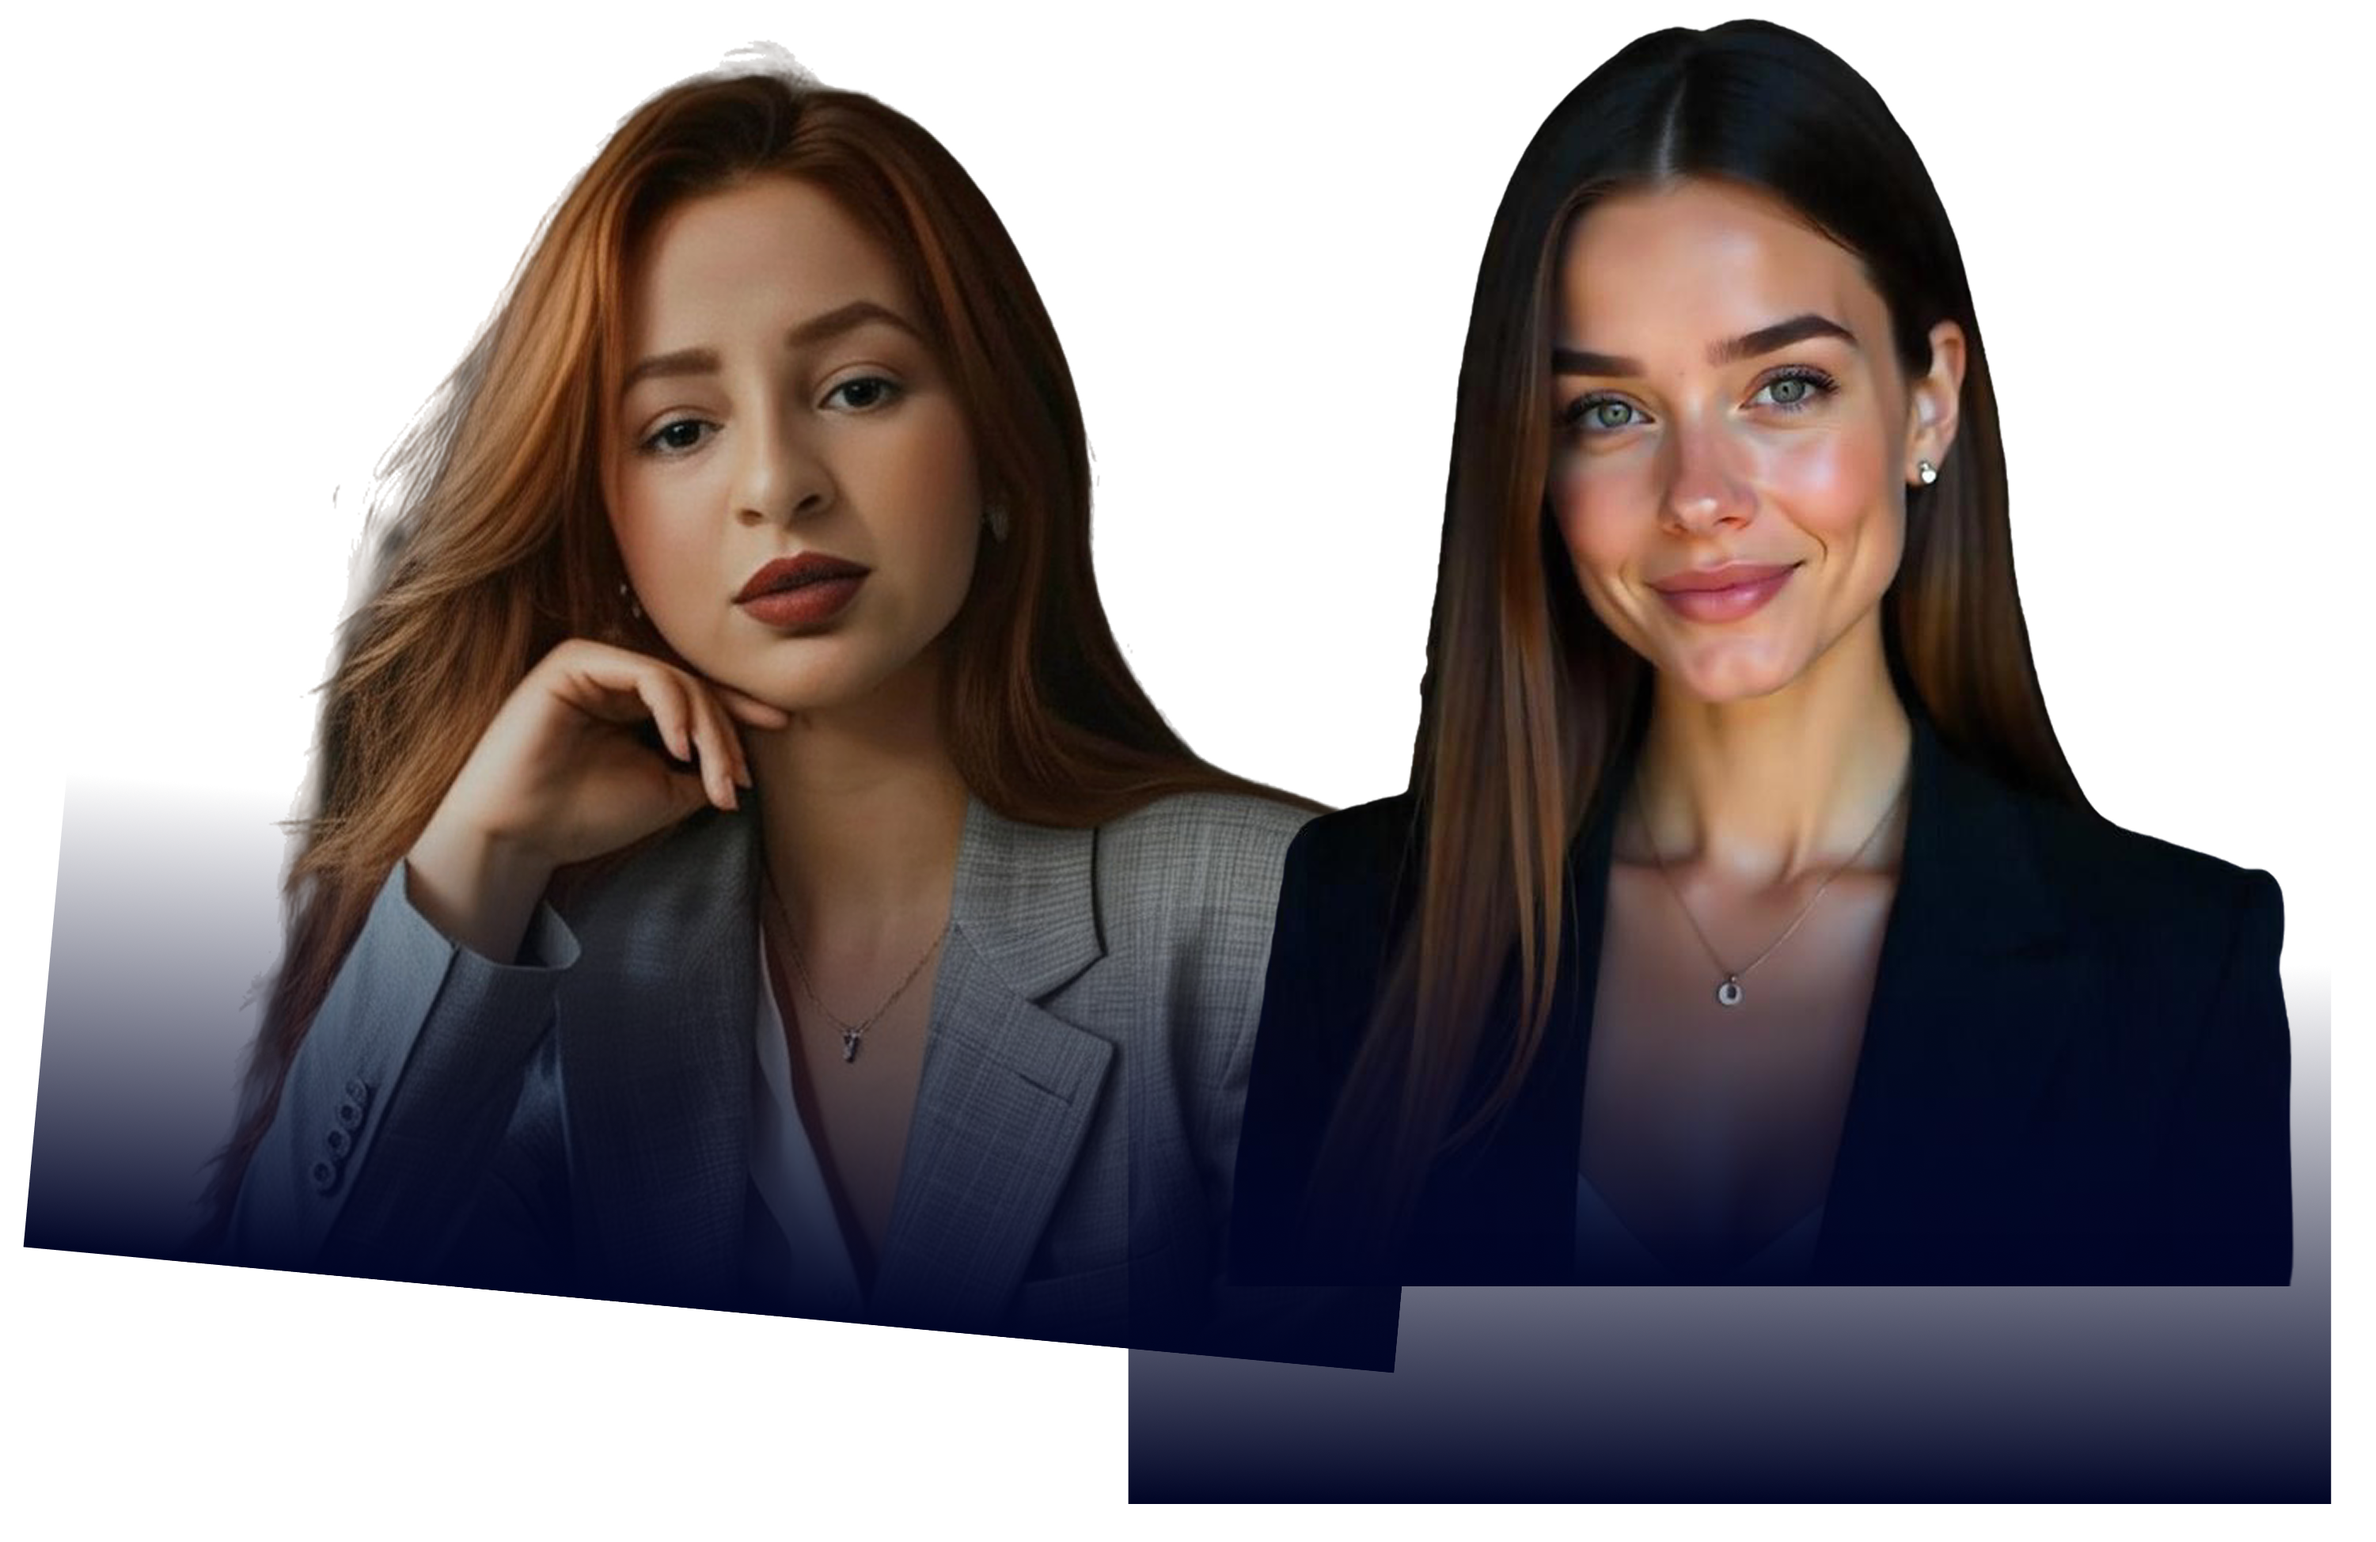
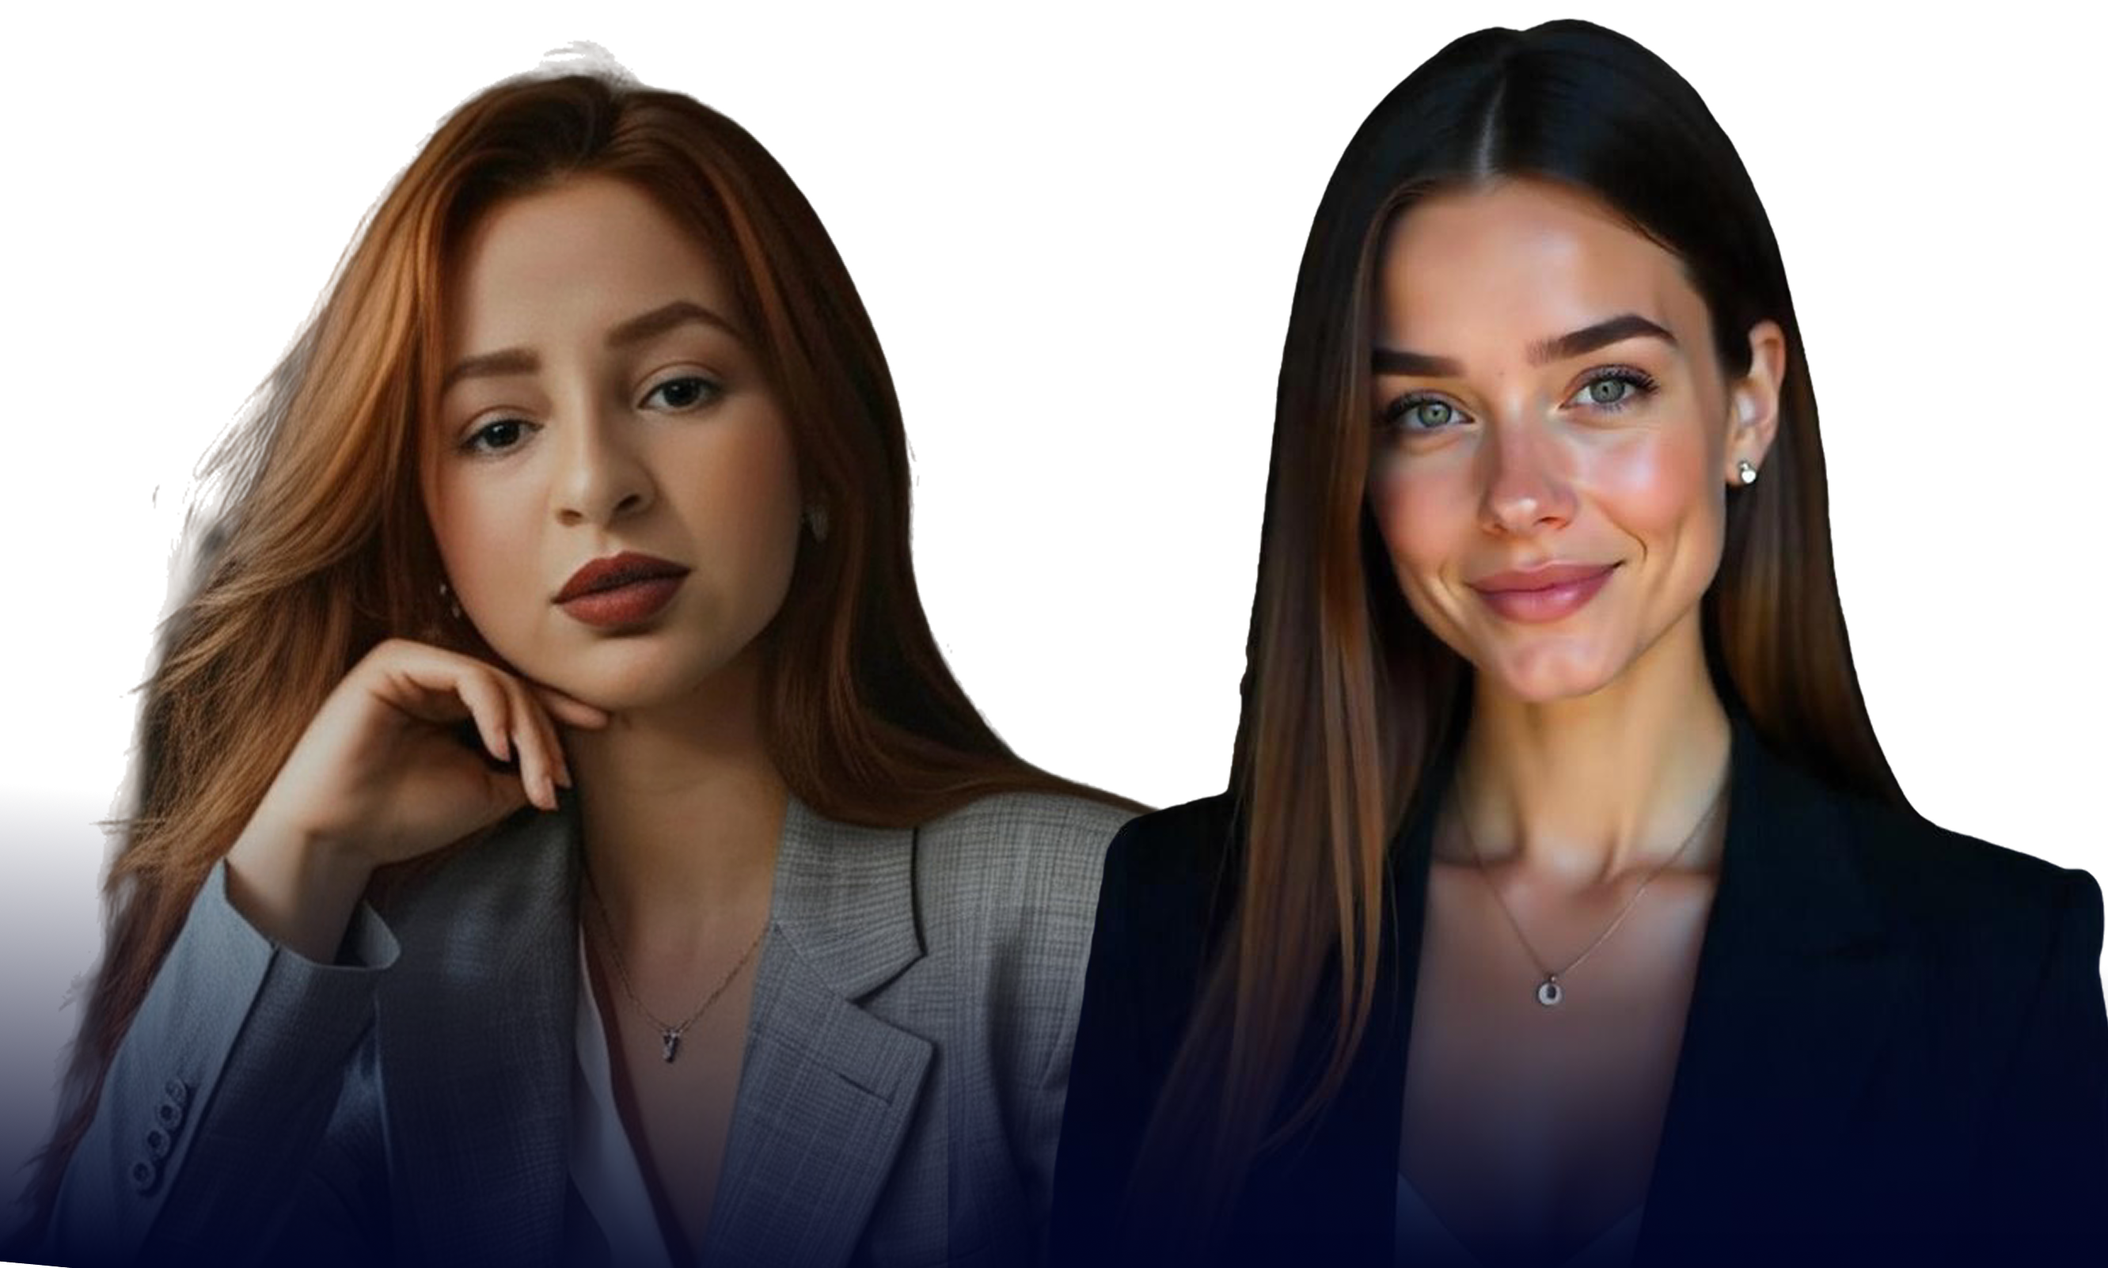
fixed the girl png in the hero of kenesis

diff --git a/src/components/Landing/Hero.tsx b/src/components/Landing/Hero.tsx
@@ -7,9 +7,9 @@ import React from "react";
 
 const Hero: React.FC = () => {
   return (
-    <section className="relative min-h-screen flex items-center justify-center px-4 md:px-24 overflow-hidden">
+    <section className="relative min-h-[100vh] flex items-center justify-center px-4 md:px-24 overflow-hidden">
       {/* Grid Background */}
-      <div className="absolute inset-0 opacity-60">
+      {/* <div className="absolute inset-0 opacity-60">
         <div
           className="w-full h-full"
           style={{
@@ -24,10 +24,10 @@ const Hero: React.FC = () => {
               "radial-gradient(ellipse 90% 70% at center, rgba(0,0,0,1) 0%, rgba(0,0,0,0.8) 40%, rgba(0,0,0,0.4) 70%, transparent 100%)",
           }}
         />
-      </div>
+      </div> */}
 
       {/* Glowing Blue Effect */}
-      <div className="">
+      {/* <div className="">
         <div
           className="w-full h-full rounded-full blur-3xl opacity-40"
           style={{
@@ -35,7 +35,7 @@ const Hero: React.FC = () => {
               "radial-gradient(circle, rgba(6,128,255,0.8) 0%, rgba(2,46,210,0.5) 40%, rgba(6,128,255,0.2) 70%, transparent 90%)",
           }}
         />
-      </div>
+      </div> */}
 
       {/* Content */}
       <div className="relative z-10 w-full max-w-7xl mx-auto">

diff --git a/src/components/Landing/InfoProductsSection.tsx b/src/components/Landing/InfoProductsSection.tsx
@@ -26,8 +26,8 @@ const InfoProductsSection: React.FC = () => {
       />
 
       {/* Mild radial glow center */}
-      <div className="absolute inset-0 flex items-center justify-center pointer-events-none">
-        <div className="w-full h-[900px] rounded-full bg-[radial-gradient(circle,rgba(34,74,255,0.35)_0%,rgba(7,6,21,0)_70%)] blur-3xl" />
+      <div className="absolute top-50 inset-0 flex items-center justify-center pointer-events-none">
+        <div className="w-full h-[700px] rounded-full bg-[radial-gradient(circle,rgba(34,74,255,0.35)_0%,rgba(7,6,21,0)_70%)] blur-3xl" />
       </div>
 
       <div className="relative z-10 max-w-5xl mx-auto text-center">
